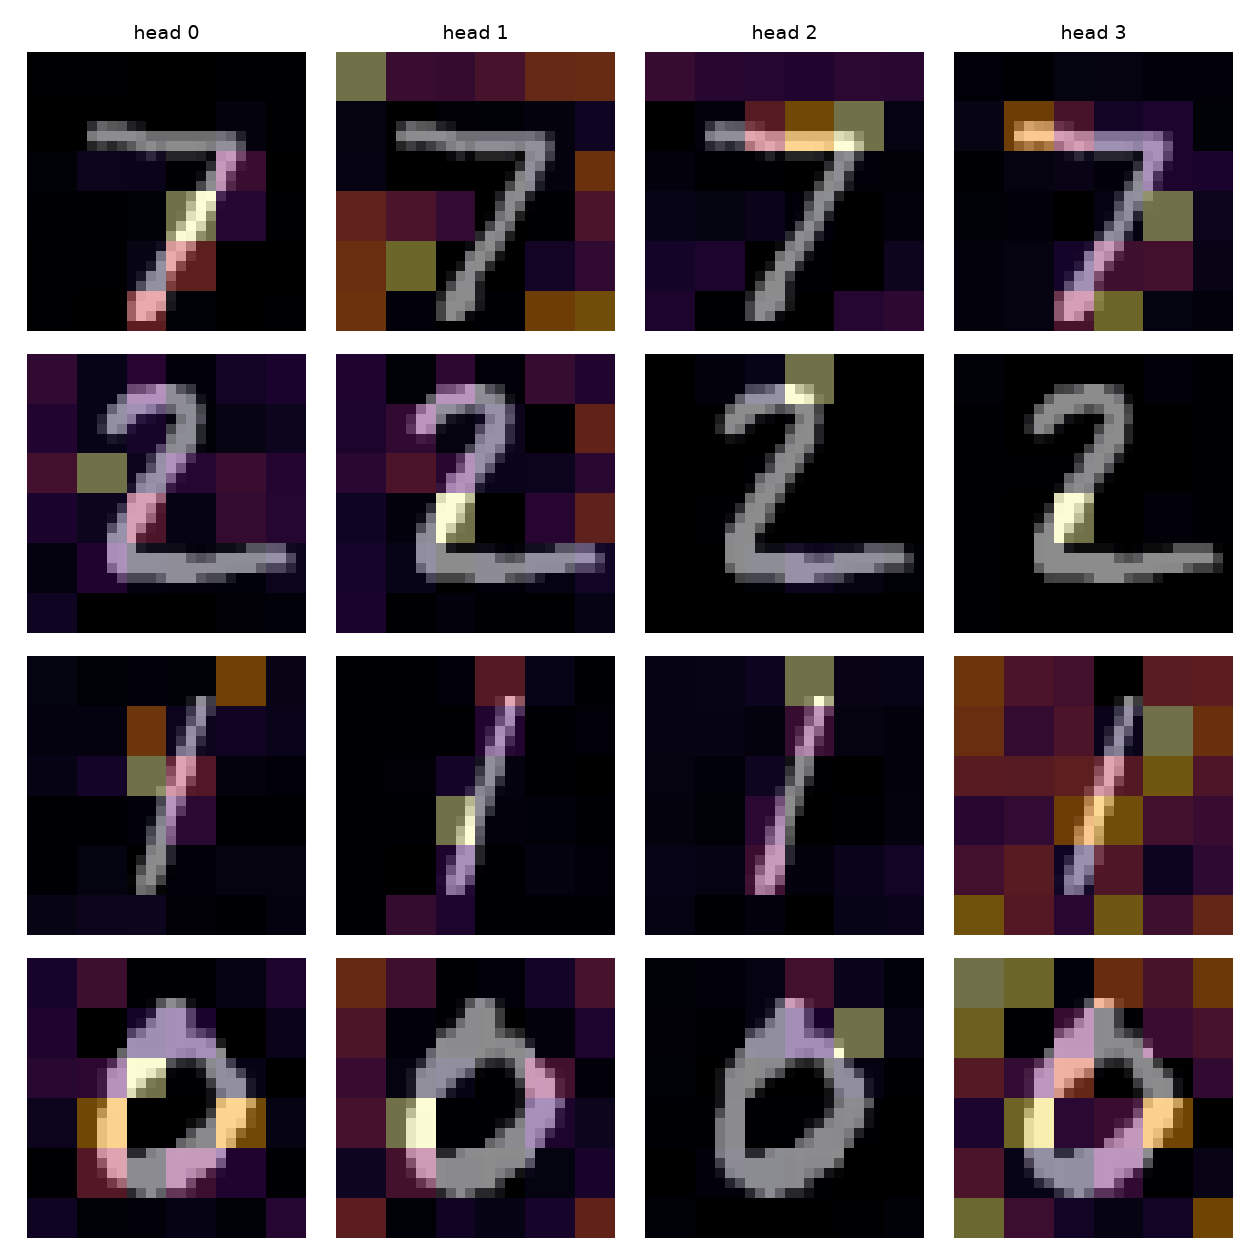
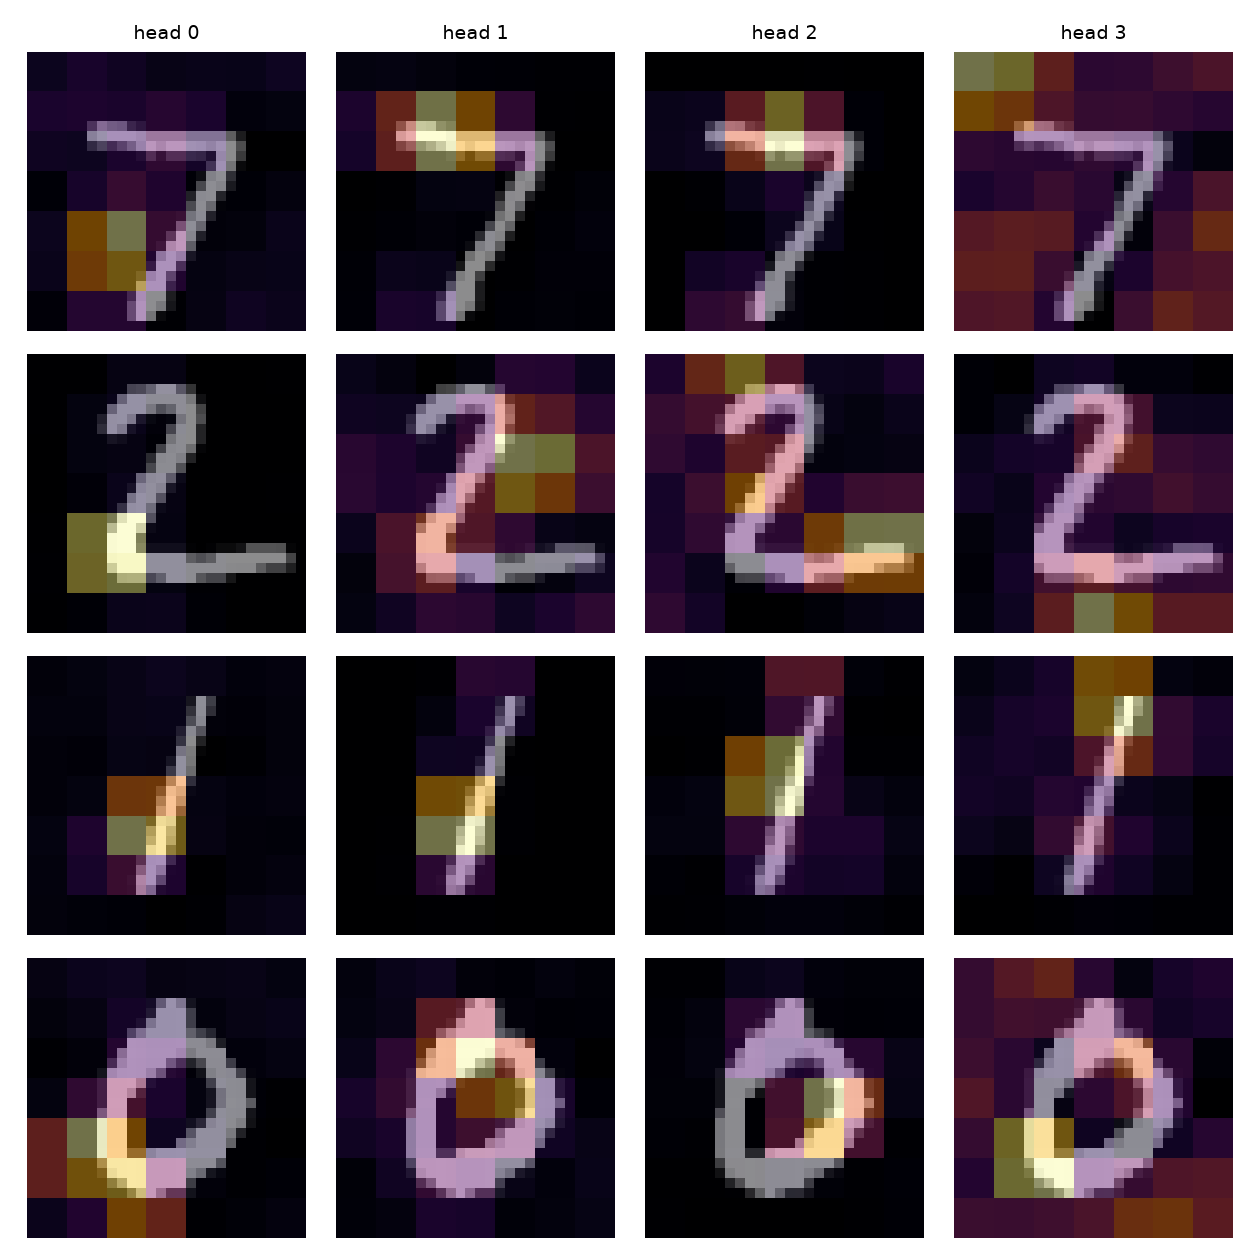
E2: identical scratch/torch init, SDPA checks, results of the 13/10 run
- ScratchMSA draws its init in the same order as nn.MultiheadAttention,
  so both variants start from the same weights for a given seed.
- PatchTokenizer rejects kernel/stride pairs that leave pixels uncovered.
- check_msa.py also covers the SDPA training path, the dropout math path,
  identical init and attention-map placement.
- attention_maps.py paints each token on its real input window.
- analyze.py plots training/loss when it exists.
- Results, figures and test configs from the 13/10/2026 run
  (checkpoints/e2/train_<run>/261013*).

diff --git a/scripts/e2/check_msa.py b/scripts/e2/check_msa.py
@@ -11,11 +11,12 @@ if _repo_root not in sys.path:
 import torch
 import torch.nn as nn
 
-from models.e2.attention import ScratchMSA
+from models.e2.attention import ScratchMSA, TorchMSA
 from models.e2.tokenizers import (CNNStemTokenizer, PatchTokenizer,
                                   PixelTokenizer, RowTokenizer)
 from models.e2.transformer import TransformerClassifier
 from models.e2.utils import count_params
+from scripts.e2.attention_maps import attention_image
 
 CASES = (
     (2, 49, 64, 4),
@@ -30,6 +31,10 @@ CASES = (
 FLOAT32_OUT_LIMIT = 1e-5
 FLOAT32_GRAD_LIMIT = 1e-4
 FLOAT64_LIMIT = 1e-8
+# Training calls TorchMSA with return_attn=False, which dispatches to SDPA.
+# SDPA reduces in a different order than the explicit softmax in ScratchMSA.
+SDPA_OUT_LIMIT = 1e-4
+SDPA_GRAD_LIMIT = 1e-3
 
 
 def _diff(left, right):
@@ -43,10 +48,38 @@ def _copy_weights(scratch, reference):
     scratch.out_proj.bias.data.copy_(reference.out_proj.bias)
 
 
+def _reference_name(name):
+    '''Map a ScratchMSA parameter name onto nn.MultiheadAttention.'''
+    name = name.replace('.attn.in_proj.weight', '.attn.attn.in_proj_weight')
+    name = name.replace('.attn.in_proj.bias', '.attn.attn.in_proj_bias')
+    return name.replace('.attn.out_proj.', '.attn.attn.out_proj.')
+
+
 def _check_init():
     scratch = ScratchMSA(64, 4)
     if scratch.in_proj.bias.abs().max().item() != 0.0 or scratch.out_proj.bias.abs().max().item() != 0.0:
         raise AssertionError('ScratchMSA biases must start at 0, matching PyTorch')
+
+    def build(attn_impl, seed):
+        torch.manual_seed(seed)
+        return TransformerClassifier(PatchTokenizer(), attn_impl=attn_impl)
+
+    scratch_model = build('scratch', 0)
+    torch_model = build('torch', 0)
+    reference = dict(torch_model.named_parameters())
+    for name, param in scratch_model.named_parameters():
+        other_name = _reference_name(name)
+        other = reference.get(other_name)
+        if other is None or not torch.equal(param, other):
+            raise AssertionError(f'init mismatch at {name} vs {other_name}')
+
+    repeated = build('scratch', 0)
+    for name, param in scratch_model.named_parameters():
+        if not torch.equal(param, dict(repeated.named_parameters())[name]):
+            raise AssertionError(f'seed 0 did not repeat at {name}')
+
+    if torch.equal(scratch_model.head.weight, build('scratch', 1).head.weight):
+        raise AssertionError('seed 0 and seed 1 produced the same classifier head')
 
 
 def _run_case(batch, length, dim, heads, dtype):
@@ -97,6 +130,88 @@ def _run_case(batch, length, dim, heads, dtype):
     return diffs
 
 
+def _copy_torch(scratch, module):
+    _copy_weights(scratch, module.attn)
+
+
+def _check_training_path():
+    '''Cover the forward training actually runs.
+
+    Dropout 0 compares ScratchMSA with TorchMSA(return_attn=False), the SDPA
+    call. Dropout 0.1 compares ScratchMSA with nn.MultiheadAttention's math
+    path: fused SDPA dropout draws a different mask, so it is not the reference.
+    '''
+    torch.manual_seed(0)
+    source = torch.randn(2, 49, 64)
+    scratch = ScratchMSA(64, 4, dropout=0.0)
+    trained = TorchMSA(64, 4, dropout=0.0)
+    _copy_torch(scratch, trained)
+    scratch.train()
+    trained.train()
+    left = source.detach().clone().requires_grad_(True)
+    right = source.detach().clone().requires_grad_(True)
+    left_out, _ = scratch(left, return_attn=False)
+    right_out, _ = trained(right, return_attn=False)
+    left_out.sum().backward()
+    right_out.sum().backward()
+    out_gap = _diff(left_out, right_out)
+    grad_gap = max(
+        _diff(left.grad, right.grad),
+        _diff(scratch.in_proj.weight.grad, trained.attn.in_proj_weight.grad),
+        _diff(scratch.out_proj.weight.grad, trained.attn.out_proj.weight.grad),
+    )
+    print(f'train sdpa dropout=0 out={out_gap:.3e} grad={grad_gap:.3e}')
+    if out_gap >= SDPA_OUT_LIMIT or grad_gap >= SDPA_GRAD_LIMIT:
+        raise AssertionError(f'SDPA training path exceeded limits out={out_gap} grad={grad_gap}')
+
+    reference = nn.MultiheadAttention(64, 4, dropout=0.1, batch_first=True)
+    dropped = ScratchMSA(64, 4, dropout=0.1)
+    _copy_weights(dropped, reference)
+    reference.train()
+    dropped.train()
+    torch.manual_seed(1)
+    scratch_out, _ = dropped(source, return_attn=False)
+    torch.manual_seed(1)
+    math_out, _ = reference(source, source, source, need_weights=True, average_attn_weights=False)
+    drop_gap = _diff(scratch_out, math_out)
+    print(f'train math dropout=0.1 out={drop_gap:.3e}')
+    if drop_gap >= FLOAT32_OUT_LIMIT:
+        raise AssertionError(f'dropout math path exceeded limit out={drop_gap}')
+
+    dropped.eval()
+    fast = TorchMSA(64, 4, dropout=0.1)
+    _copy_torch(dropped, fast)
+    fast.eval()
+    eval_gap = _diff(dropped(source, return_attn=False)[0], fast(source, return_attn=False)[0])
+    print(f'eval sdpa dropout=0.1 out={eval_gap:.3e}')
+    if eval_gap >= SDPA_OUT_LIMIT:
+        raise AssertionError(f'SDPA eval path exceeded limit out={eval_gap}')
+
+
+def _check_token_coverage():
+    try:
+        PatchTokenizer(image_size=28, patch_size=6, stride=6)
+    except ValueError:
+        pass
+    else:
+        raise AssertionError('patch 6 stride 6 on 28px must report the uncovered border')
+
+    overlap = PatchTokenizer(patch_size=8, stride=4)
+    weights = torch.zeros(overlap.num_tokens)
+    weights[0] = 1
+    heat = attention_image(weights, overlap, 28)
+    outside = heat[8:].abs().sum().item() + heat[:, 8:].abs().sum().item()
+    if not torch.all(heat[:8, :8] > 0) or outside:
+        raise AssertionError('overlap token 0 must land on pixels [0:8, 0:8]')
+
+    rows = RowTokenizer()
+    row_weights = torch.zeros(rows.num_tokens)
+    row_weights[3] = 1
+    row_heat = attention_image(row_weights, rows, 28)
+    if row_heat[3].min().item() != 1 or row_heat[0].sum().item() or row_heat[4].sum().item():
+        raise AssertionError('a row token must paint that image row')
+
+
 def _check_shapes():
     image = torch.zeros(2, 1, 28, 28)
     specs = (
@@ -124,6 +239,8 @@ def _check_shapes():
 
 def main():
     _check_init()
+    _check_training_path()
+    _check_token_coverage()
     _check_shapes()
     out_dir = Path(_repo_root) / 'docs' / 'assets' / 'e2'
     out_dir.mkdir(parents=True, exist_ok=True)
@@ -134,6 +251,9 @@ def main():
     )
     rows = []
     failed = False
+    # The init check above builds models and draws from the RNG. Start the
+    # numerical cases from a fixed seed so those draws do not change the inputs.
+    torch.manual_seed(0)
     for dtype in (torch.float32, torch.float64):
         for batch, length, dim, heads in CASES:
             diffs = _run_case(batch, length, dim, heads, dtype)

diff --git a/scripts/e2/attention_maps.py b/scripts/e2/attention_maps.py
@@ -13,21 +13,56 @@ if str(_repo_root) not in sys.path:
 
 import matplotlib.pyplot as plt
 import torch
-import torch.nn.functional as F
 
 from common.config.config import CfgNode
+from models.e2.tokenizers import (CNNStemTokenizer, PatchTokenizer,
+                                  PixelTokenizer, RowTokenizer)
 
 MEAN = 0.1308
 STD = 0.3082
 
 
-def _grid(weights, n_tokens):
-    side = int(round(n_tokens ** 0.5))
-    if side * side == n_tokens:
-        return weights.reshape(side, side)
-    if n_tokens == 28:
-        return weights.reshape(28, 1)
-    raise ValueError(f'cannot reshape {n_tokens} tokens into a grid')
+def _scatter(weights, kernel, stride, image_size):
+    '''Paint each token onto its window and average where windows overlap.'''
+    count = weights.numel()
+    side = int(round(count ** 0.5))
+    if side * side != count:
+        raise ValueError(f'cannot scatter {count} tokens onto a square grid')
+    heat = torch.zeros(image_size, image_size)
+    cover = torch.zeros(image_size, image_size)
+    values = weights.detach().float().reshape(side, side)
+    for row in range(side):
+        for col in range(side):
+            top = row * stride
+            left = col * stride
+            if top + kernel > image_size or left + kernel > image_size:
+                raise ValueError(f'token window {kernel} at {(top, left)} exceeds image_size {image_size}')
+            heat[top:top + kernel, left:left + kernel] += values[row, col]
+            cover[top:top + kernel, left:left + kernel] += 1
+    return heat / cover.clamp(min=1)
+
+
+def attention_image(weights, tokenizer, image_size):
+    '''Map CLS-to-token weights onto pixels.
+
+    Overlapping patches are added on the real kernel window and divided by how
+    many windows cover each pixel. A square nearest upsample would shift them.
+    '''
+    if isinstance(tokenizer, RowTokenizer):
+        if weights.numel() != image_size:
+            raise ValueError(f'row tokenizer expects {image_size} tokens, got {weights.numel()}')
+        return weights.detach().float().reshape(image_size, 1).expand(image_size, image_size)
+    if isinstance(tokenizer, PatchTokenizer):
+        return _scatter(weights, tokenizer.proj.kernel_size[0], tokenizer.proj.stride[0], image_size)
+    if isinstance(tokenizer, PixelTokenizer):
+        return _scatter(weights, 1, 1, image_size)
+    if isinstance(tokenizer, CNNStemTokenizer):
+        side = int(round(weights.numel() ** 0.5))
+        if side * side != weights.numel() or image_size % side:
+            raise ValueError(f'cannot align {weights.numel()} stem tokens with image_size {image_size}')
+        cell = image_size // side
+        return _scatter(weights, cell, cell, image_size)
+    raise TypeError(f'unsupported tokenizer {type(tokenizer).__name__}')
 
 
 def main():
@@ -53,7 +88,6 @@ def main():
 
     last = attentions[-1]
     cls_to_tokens = last[:, :, 0, 1:]
-    n_tokens = cls_to_tokens.shape[-1]
     n_heads = cls_to_tokens.shape[1]
     shown = images.shape[0]
     figure, axes = plt.subplots(shown, n_heads, figsize=(2.1 * n_heads, 2.1 * shown), squeeze=False)
@@ -63,8 +97,7 @@ def main():
         for head in range(n_heads):
             axis = axes[row][head]
             canvas = gray[row, 0]
-            heat = _grid(maps[row, head], n_tokens).float()
-            heat = F.interpolate(heat[None, None], size=canvas.shape, mode='nearest')[0, 0]
+            heat = attention_image(maps[row, head], model.tokenizer, canvas.shape[0])
             axis.imshow(canvas, cmap='gray', vmin=0, vmax=1)
             axis.imshow(heat, cmap='inferno', alpha=0.45)
             axis.set_axis_off()

diff --git a/scripts/e2/analyze.py b/scripts/e2/analyze.py
@@ -230,7 +230,7 @@ def _write_latex(records, path):
 
 
 def _plot_curves(groups, out_dir):
-    '''Line style encodes the split (train dashed, valid solid); colour encodes the MSA.'''
+    '''Dashed is the train split. The loss panel uses training/loss when that tag exists.'''
     for family, runs in groups.items():
         if not any(item['series'] for item in runs.values()):
             continue
@@ -241,7 +241,14 @@ def _plot_curves(groups, out_dir):
                 continue
             for axis, tag in ((axes[0], 'loss'), (axes[1], 'accuracy')):
                 for split, line in (('train', '--'), ('valid', '-')):
-                    points = item['series'].get(f'{split}/{tag}', [])
+                    key = f'{split}/{tag}'
+                    label = f'{split}/{variant}'
+                    # training/loss is the optimized loss (dropout on). train/loss
+                    # is a later eval pass. Old logs only have the eval pass.
+                    if tag == 'loss' and split == 'train' and item['series'].get('training/loss'):
+                        key = 'training/loss'
+                        label = f'optim/{variant}'
+                    points = item['series'].get(key, [])
                     if not points:
                         continue
                     axis.plot(
@@ -249,7 +256,7 @@ def _plot_curves(groups, out_dir):
                         [value for _, value in points],
                         linestyle=line,
                         color=color,
-                        label=f'{split}/{variant}',
+                        label=label,
                     )
         axes[0].set_title('Loss')
         axes[1].set_title('Accuracy')

diff --git a/docs/assets/e2/results_e2.tex b/docs/assets/e2/results_e2.tex
@@ -2,17 +2,17 @@
 \toprule
 Tokenizer & MSA & Params & Epoch & Time/epoch (s) & Val acc (\%) & Test acc (\%) & Ảnh/s \\
 \midrule
-patch & scratch & 139\,018 & 40 & 16.88 & 98.69 & 98.85 & 72131 \\
-patch & torch & 139\,018 & 49 & 15.84 & 98.62 & 98.86 & 116427 \\
+patch & scratch & 139\,018 & 38 & 11.08 & 98.73 & 98.85 & 72139 \\
+patch & torch & 139\,018 & 33 & 15.83 & 98.60 & 98.67 & 117821 \\
 \addlinespace
-row & scratch & 138\,442 & 26 & 11.30 & 98.84 & 98.95 & 144131 \\
-row & torch & 138\,442 & 33 & 15.70 & 98.97 & 99.01 & 209633 \\
+row & scratch & 138\,442 & 43 & 16.03 & 98.87 & 99.13 & 142873 \\
+row & torch & 138\,442 & 34 & 10.69 & 98.82 & 98.94 & 210973 \\
 \addlinespace
-cnnstem & scratch & 161\,098 & 36 & 11.89 & 99.37 & 99.42 & 54327 \\
-cnnstem & torch & 161\,098 & 33 & 16.91 & 99.30 & 99.33 & 76586 \\
+cnnstem & scratch & 161\,098 & 33 & 16.73 & 99.32 & 99.33 & 54117 \\
+cnnstem & torch & 161\,098 & 34 & 15.94 & 99.29 & 99.48 & 76256 \\
 \addlinespace
-patch7 & scratch & 139\,018 & 47 & 16.92 & 98.74 & 98.89 & 153367 \\
+patch7 & scratch & 139\,018 & 47 & 11.76 & 98.60 & 98.70 & 161286 \\
 \addlinespace
-patch\_overlap & scratch & 141\,258 & 28 & 11.49 & 98.67 & 98.74 & 105613 \\
+patch\_overlap & scratch & 141\,258 & 52 & 16.17 & 98.94 & 98.98 & 106883 \\
 \bottomrule
 \end{tabular}

diff --git a/models/e2/attention.py b/models/e2/attention.py
@@ -9,6 +9,7 @@ import math
 
 import torch
 import torch.nn as nn
+from torch.nn.utils import skip_init
 
 
 class ScratchMSA(nn.Module):
@@ -20,7 +21,10 @@ class ScratchMSA(nn.Module):
         self.embed_dim = embed_dim
         self.num_heads = num_heads
         self.head_dim = embed_dim // num_heads
-        self.in_proj = nn.Linear(embed_dim, 3 * embed_dim, bias=bias)
+        # Same draw order as nn.MultiheadAttention: QKV is left empty, out_proj
+        # draws Kaiming, then QKV is Xavier. A normal Linear for QKV would draw
+        # extra samples first and shift the FFN and the classifier head.
+        self.in_proj = skip_init(nn.Linear, embed_dim, 3 * embed_dim, bias=bias)
         self.out_proj = nn.Linear(embed_dim, embed_dim, bias=bias)
         self.attn_drop = nn.Dropout(dropout)
         self._reset_parameters()

diff --git a/models/e2/tokenizers.py b/models/e2/tokenizers.py
@@ -9,9 +9,16 @@ import torch.nn as nn
 
 
 def _grid_size(image_size, kernel, stride):
+    if stride <= 0 or kernel <= 0:
+        raise ValueError(f'kernel {kernel} and stride {stride} must be positive')
     side = (image_size - kernel) // stride + 1
     if side <= 0:
         raise ValueError(f'kernel {kernel} stride {stride} does not fit image_size {image_size}')
+    uncovered = (image_size - kernel) % stride
+    if uncovered:
+        raise ValueError(
+            f'kernel {kernel} stride {stride} leaves {uncovered}px uncovered on image_size {image_size}'
+        )
     return side
 
 

diff --git a/configs/e2/README.md b/configs/e2/README.md
@@ -70,15 +70,15 @@ python scripts/e2/attention_maps.py --config configs/e2/test_patch_scratch.yml
 
 Bảng dưới được điền từ `docs/assets/e2/results_e2.csv` sau khi train xong. Accuracy để ở thang 0–1. `Best epoch` là epoch có loss validation thấp nhất, cũng là epoch của checkpoint `best_*.pt`; `Val acc` đọc tại epoch đó, nên `Val acc` và `Test acc` thuộc cùng một mô hình.
 
-Số tham số đếm từ kiến trúc, không phụ thuộc lần train. Cột thời gian và accuracy điền sau khi train.
+Số tham số đếm từ kiến trúc, không phụ thuộc lần train. Số trong bảng là lần chạy ngày 13/10/2026 (checkpoint `checkpoints/e2/train_<run>/261013…`), sau khi sửa thứ tự đặt seed. Time/epoch gồm cả thời gian nạp dữ liệu và phụ thuộc container, không dùng để so sánh tốc độ; xem cột Ảnh/s trong `docs/assets/e2/results_e2.csv`.
 
 | Model | Variant | Params | Best epoch | Time/epoch (s) | Val acc | Test acc |
 |---|---|---|---|---|---|---|
-| patch | scratch | 139018 | 34 | 12.05 | 0.9863 | 0.9875 |
-| patch | torch | 139018 | 31 | 11.25 | 0.9860 | 0.9883 |
-| row | scratch | 138442 | 47 | 16.28 | 0.9898 | 0.9919 |
-| row | torch | 138442 | 47 | 17.09 | 0.9896 | 0.9895 |
-| cnnstem | scratch | 161098 | 30 | 17.97 | 0.9932 | 0.9936 |
-| cnnstem | torch | 161098 | 29 | 16.59 | 0.9923 | 0.9935 |
-| patch7 | scratch | 139018 | 25 | 11.27 | 0.9854 | 0.9867 |
-| patch_overlap | scratch | 141258 | 47 | 16.14 | 0.9897 | 0.9911 |
+| patch | scratch | 139018 | 38 | 11.08 | 0.9873 | 0.9885 |
+| patch | torch | 139018 | 33 | 15.83 | 0.9860 | 0.9867 |
+| row | scratch | 138442 | 43 | 16.03 | 0.9887 | 0.9913 |
+| row | torch | 138442 | 34 | 10.69 | 0.9882 | 0.9894 |
+| cnnstem | scratch | 161098 | 33 | 16.73 | 0.9932 | 0.9933 |
+| cnnstem | torch | 161098 | 34 | 15.94 | 0.9929 | 0.9948 |
+| patch7 | scratch | 139018 | 47 | 11.76 | 0.9860 | 0.9870 |
+| patch_overlap | scratch | 141258 | 52 | 16.17 | 0.9894 | 0.9898 |
